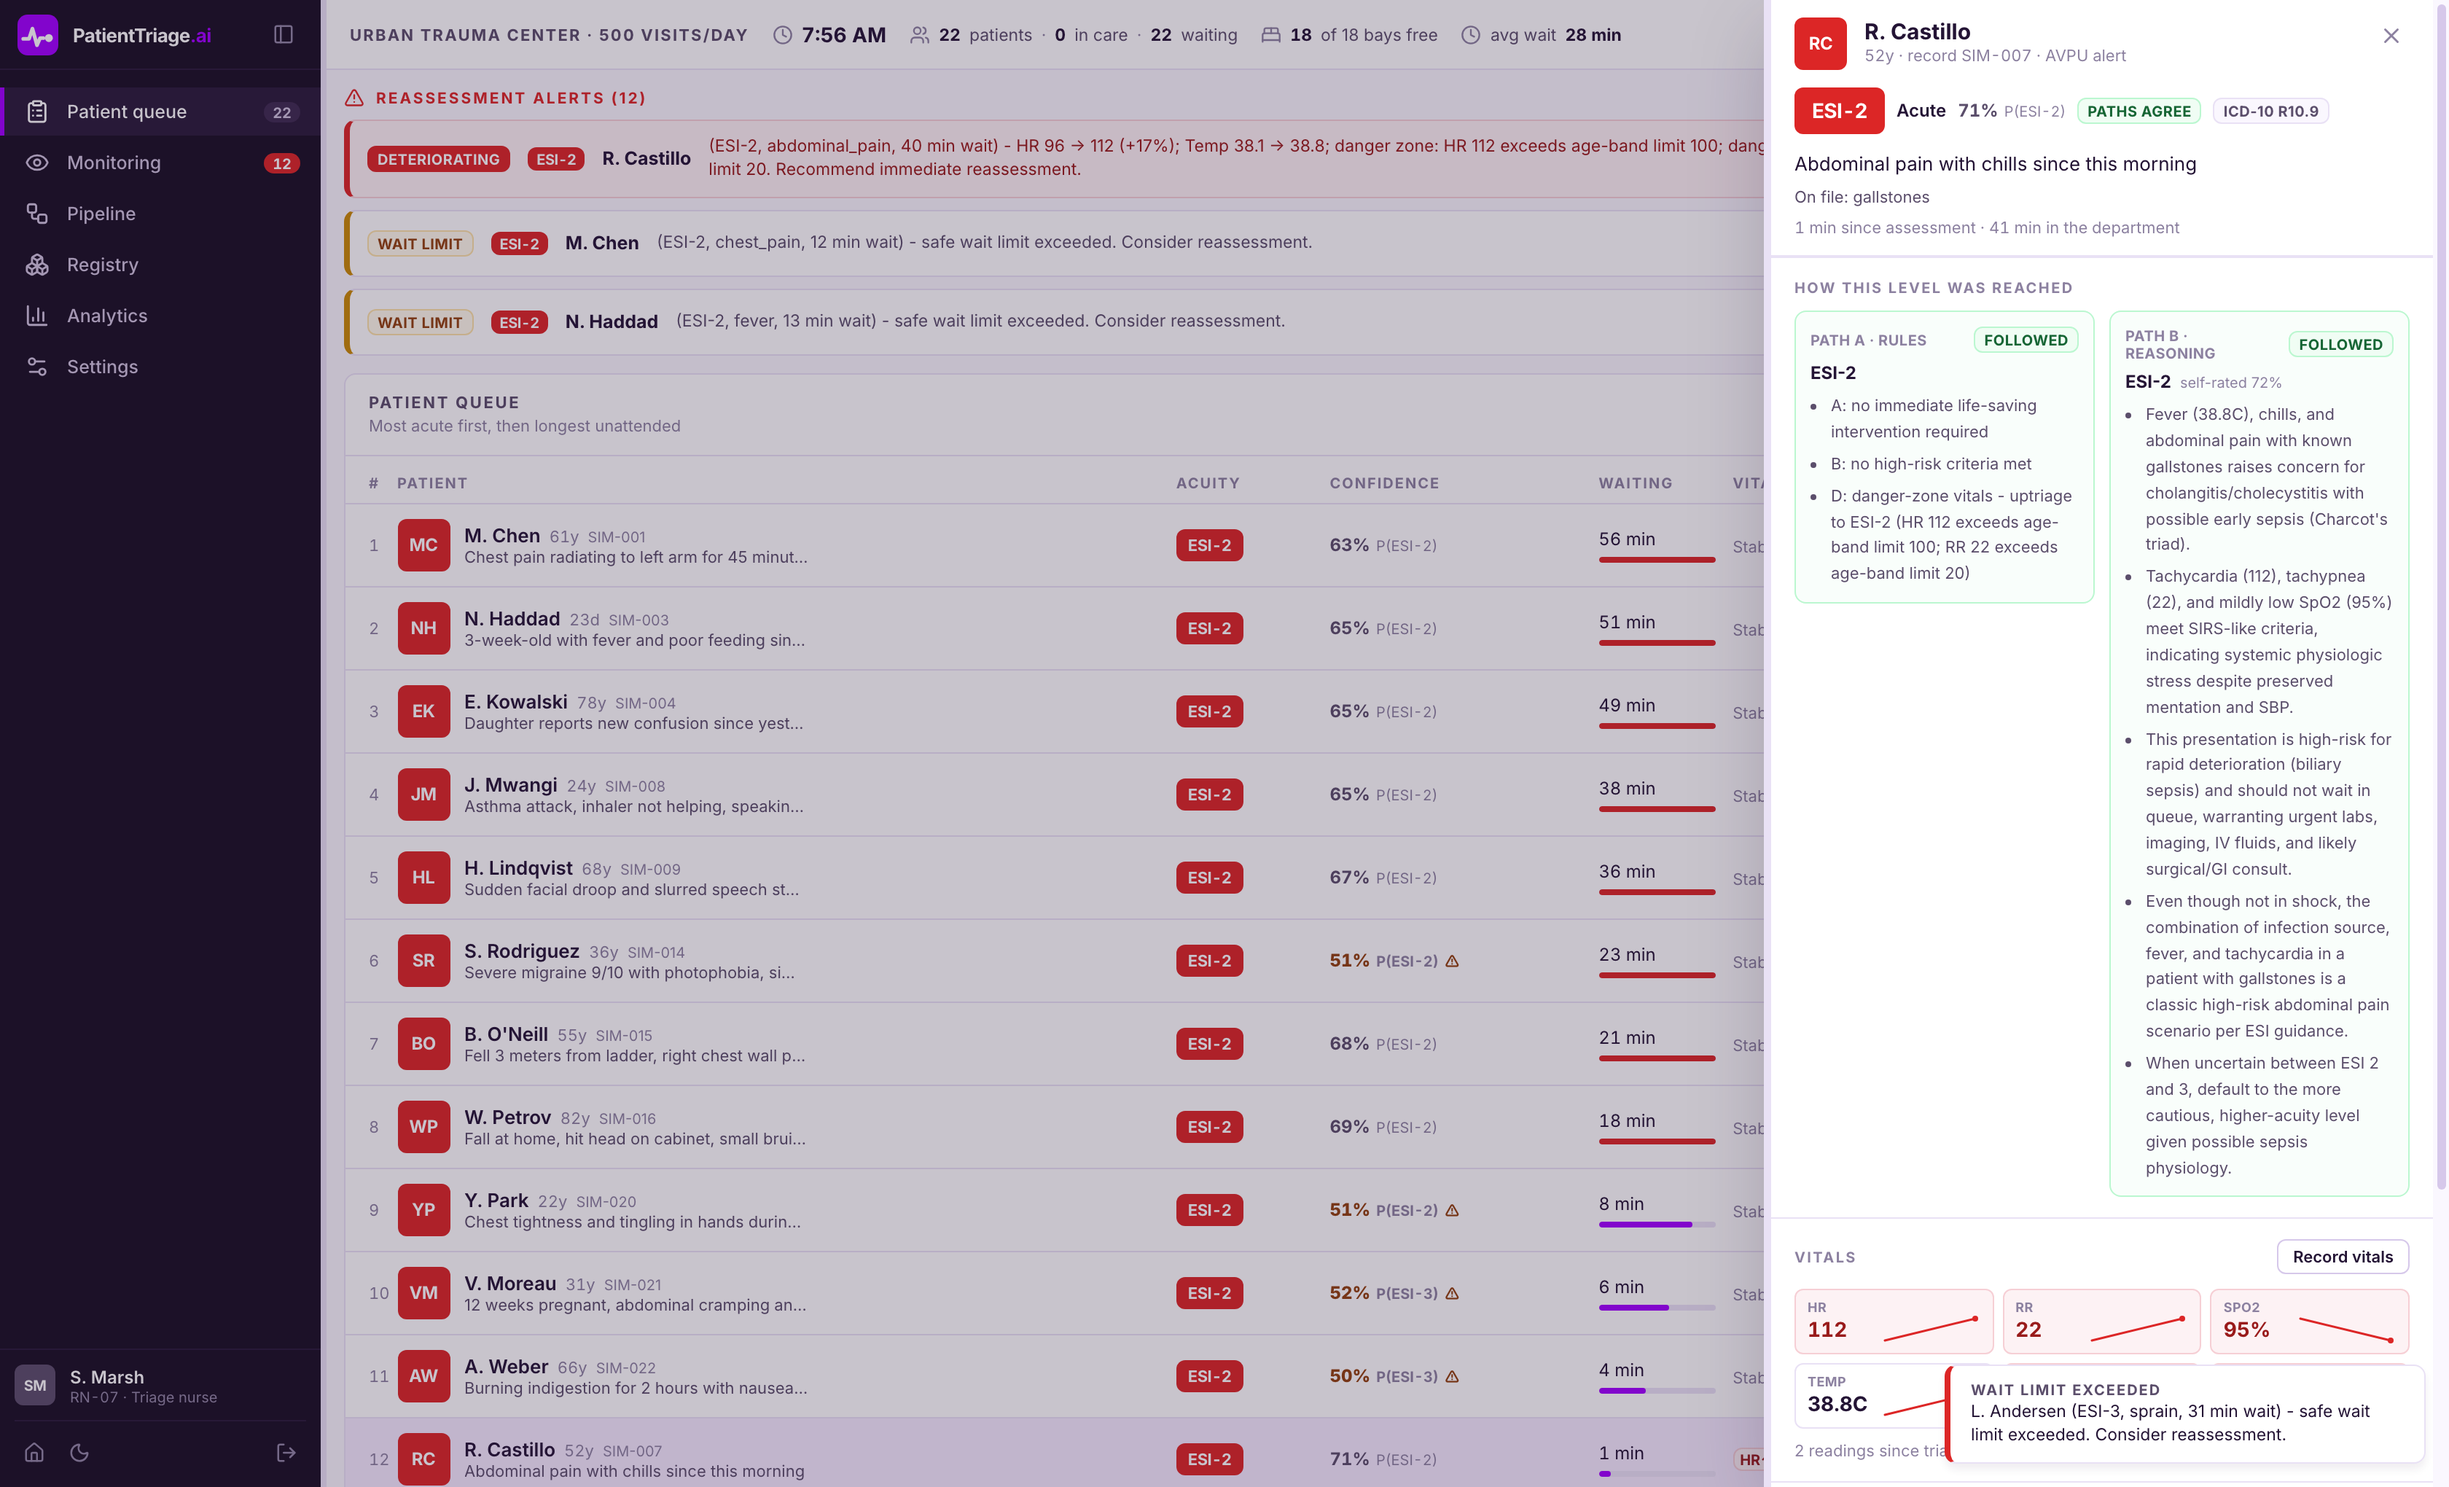
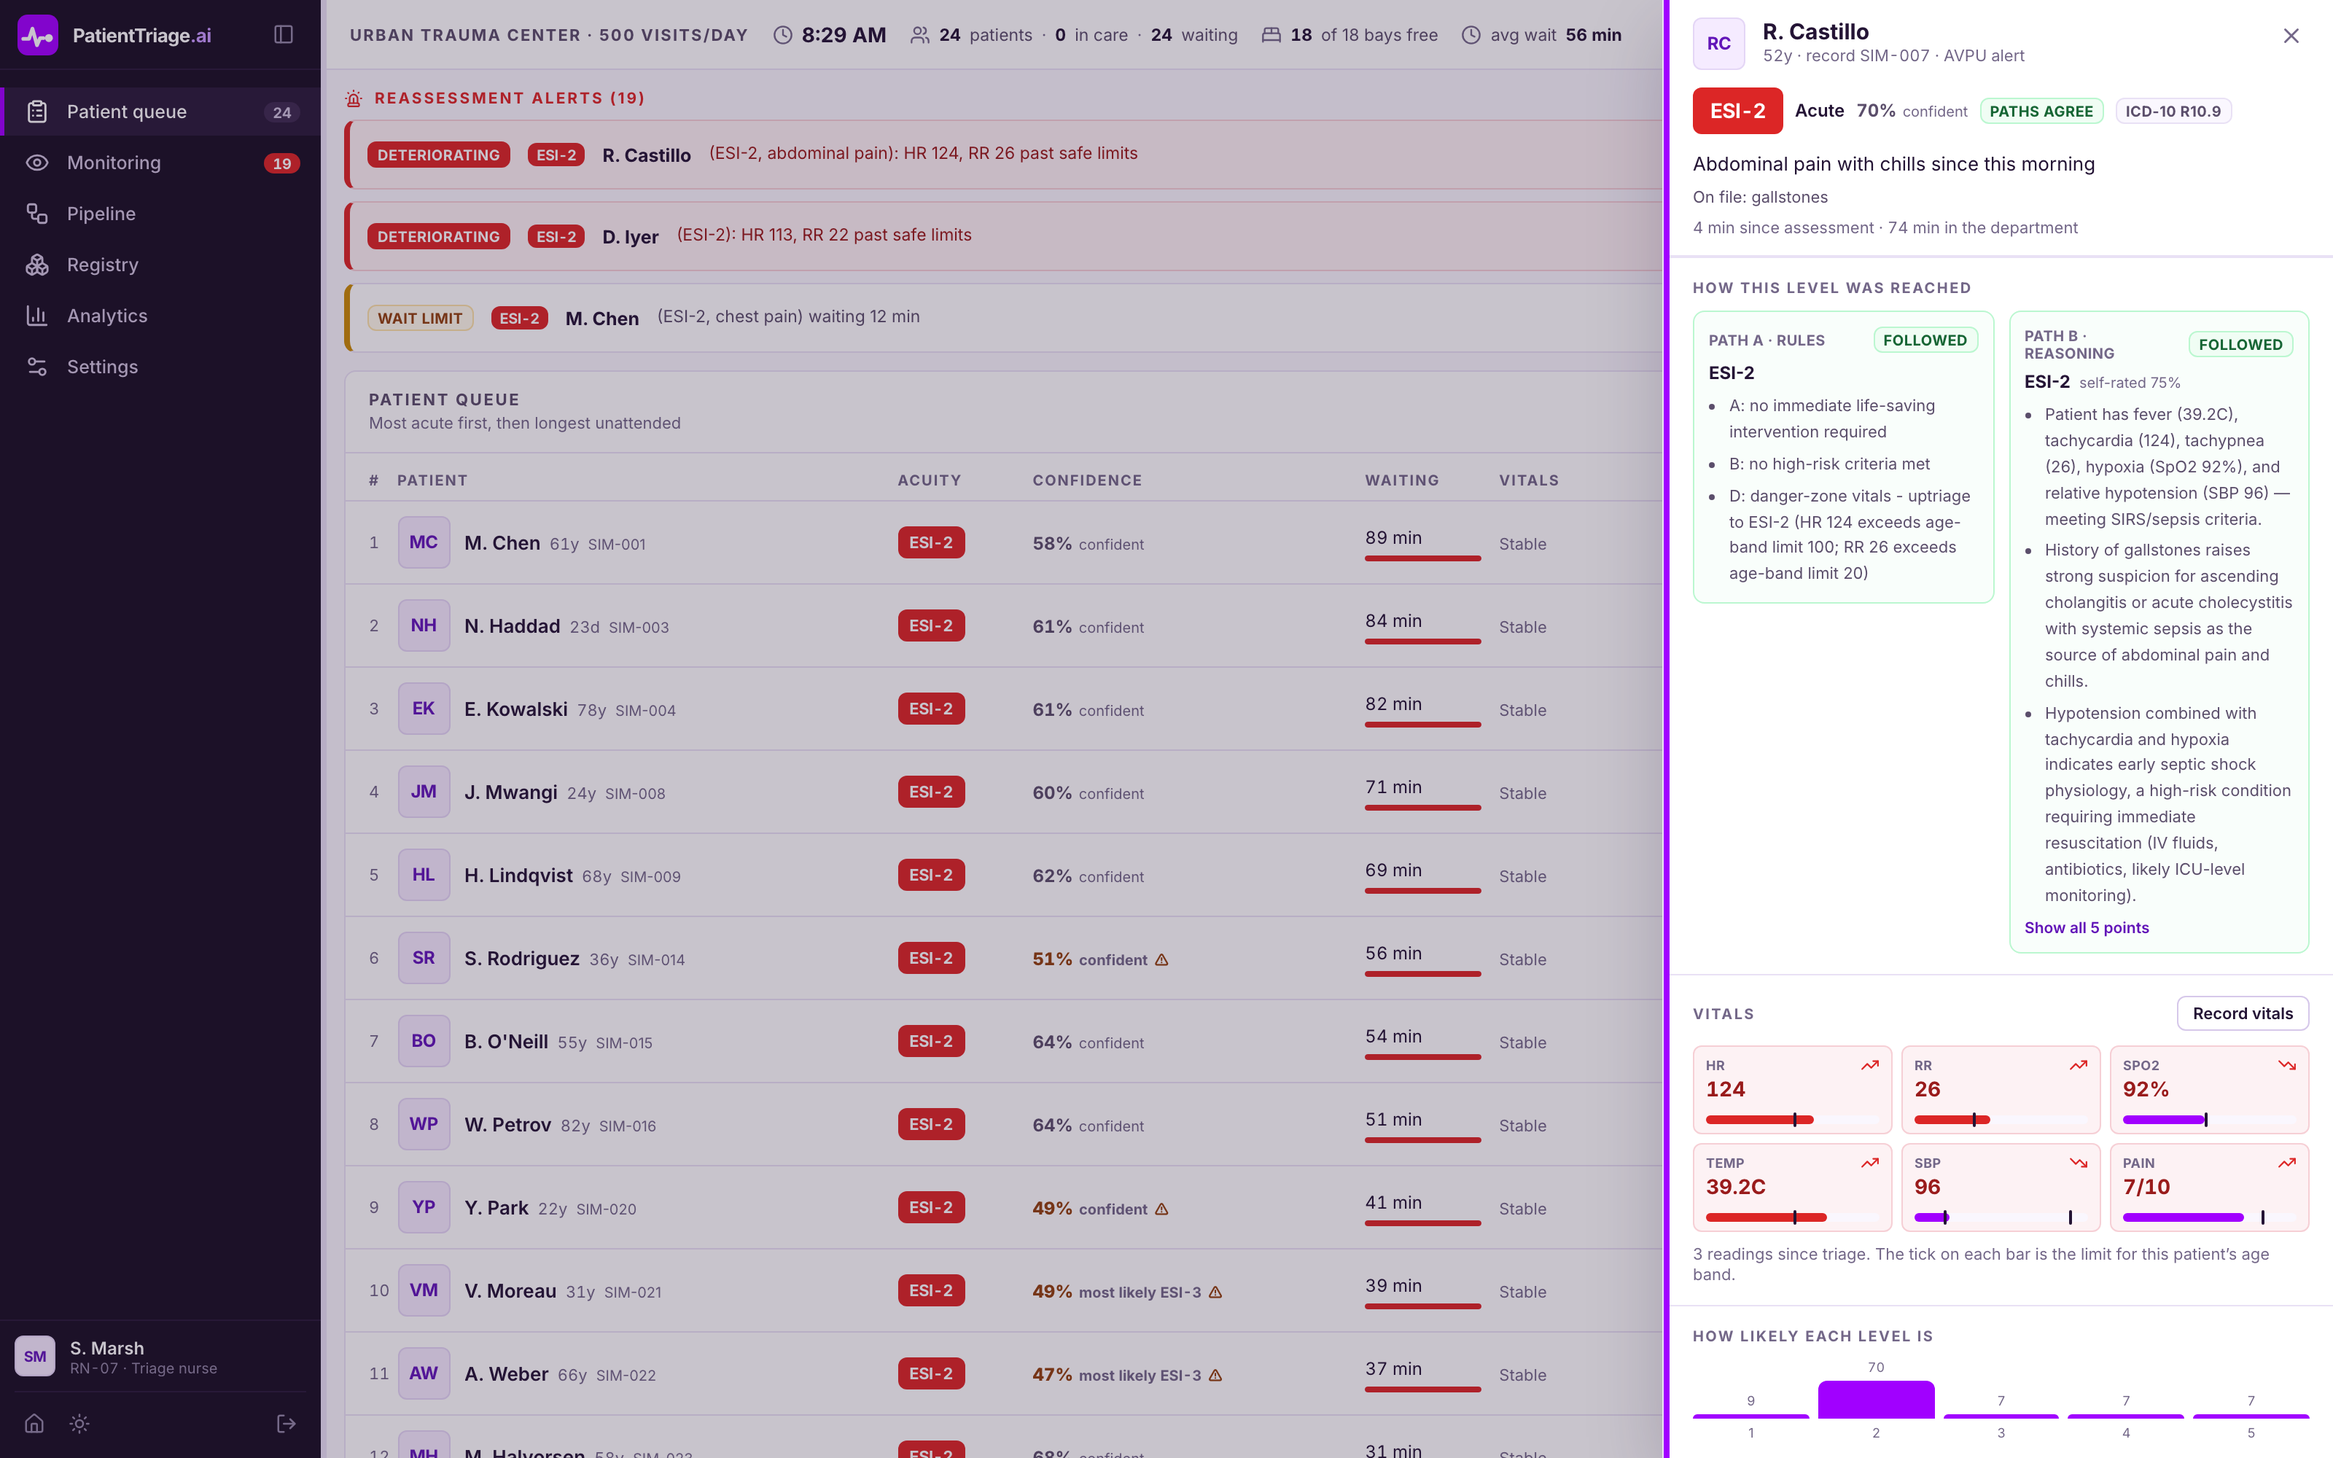
docs: screenshots and counts that match what the console now looks like
All four README images were taken before the palette work, the alert close
control, the flow chart timing fix and the form fields. They are re-captured
from a shift run from scratch, so the board reads 8:29 AM with a 56 minute
average wait rather than the 879 minutes a demo left sitting overnight
accumulates, and R. Castillo's deterioration alert is standing at the top,
which is what the caption has always claimed.

Captured against a second backend and dev server on their own ports and their
own audit database, so running them did not disturb the board that was open.

Frontend tests 67 to 92. And the acknowledge answer in the FAQ describes the
close control, since that is what the alert band offers now.

diff --git a/docs/design_faq.md b/docs/design_faq.md
@@ -299,10 +299,12 @@ Reassess (`POST /patients/{id}/reassess`) says a clinician assessed the
 patient: it restarts the safe-wait clock, returns them to `waiting`,
 collapses the drifted acuity belief back onto the two paths, and writes a
 `reassessment_check` event with the clinician ID and how long the patient had
-gone unassessed. Acknowledge (`POST /patients/{id}/acknowledge`) says only
-that a named clinician saw the alert: it writes an `alert_ack` event, and it
-deliberately changes nothing clinical, so the patient keeps their level and
-stays overdue on the board. An acknowledgment that quietly cleared the
+gone unassessed. The close control beside it acknowledges
+(`POST /patients/{id}/acknowledge`), which says only that a named clinician
+saw the alert: it writes an `alert_ack` event, and it deliberately changes
+nothing clinical, so the patient keeps their level and stays overdue on the
+board. Closing an alert is therefore never a dismissal, and the control says
+so on hover. An acknowledgment that quietly cleared the
 overdue state would be a way to make a queue look safe without making it
 safe.
 
@@ -455,7 +457,7 @@ and fills when its own record lands, which is also how it should have behaved
 in the first place.
 
 The reason it survived as long as it did is the honest part: the backend had
-212 tests and the frontend had none. It has 67 now, and the first four written
+212 tests and the frontend had none. It has 92 now, and the first four written
 were the ones that reproduce this. We checked they fail without each half of
 the fix rather than assuming they would.
 

diff --git a/README.md b/README.md
@@ -250,10 +250,10 @@ uv run uvicorn app.main:app --port 8000
 # 4. Frontend (new terminal)
 cd frontend
 npm install
-npm test                          # 67 tests
+npm test                          # 92 tests
 npm run dev                       # http://localhost:5173
 
-# 5. localhost:5173 opens the product site; "Launch console" (or /console)
+# 5. localhost:5173 opens the product site; "Launch the console" (or /console)
 #    opens the nurse console: sign in -> open a shift. The clock runs live
 #    by default at one department minute every four seconds; Next event
 #    steps the shift one arrival at a time
